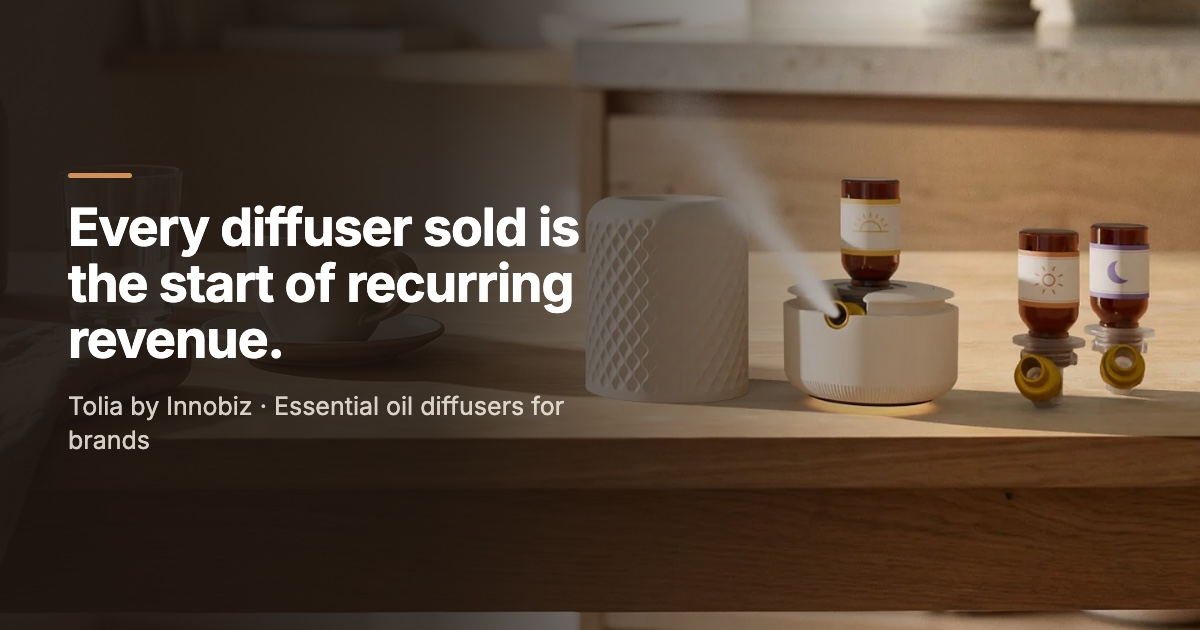
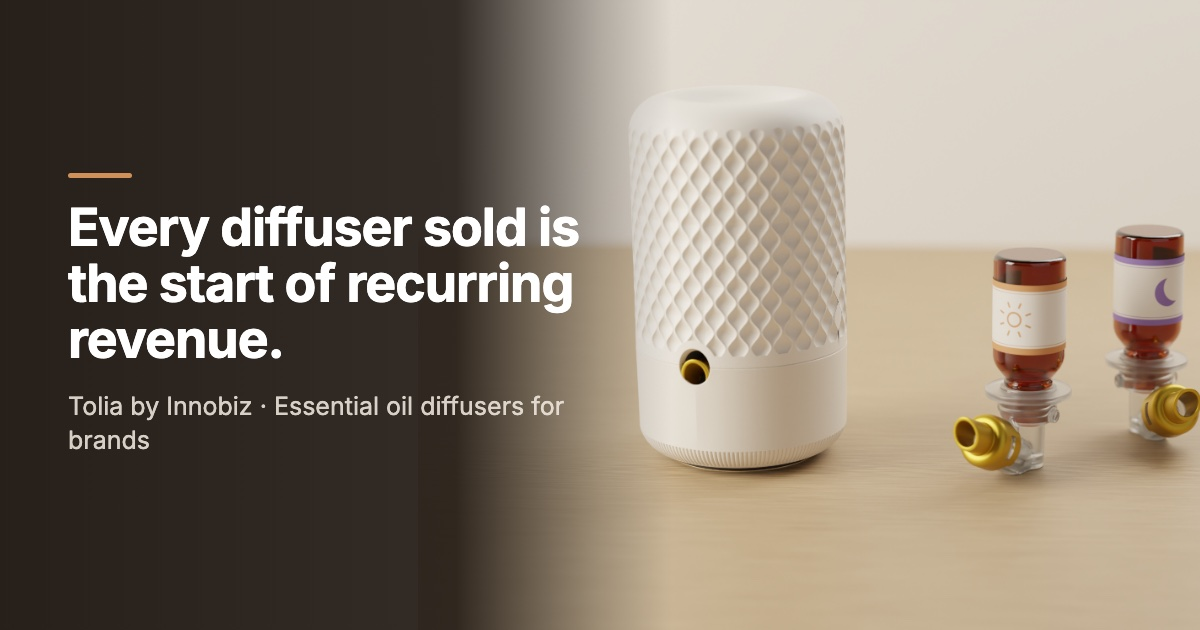
Images refaites en 3D (fichiers STP, Blender) : plus de produit qui flotte ni d'image IA
Demande de Pierre du 20/10/2026 (« on dirait que le diffuseur flotte, cela fait
trop AI ») : haut de page, constat (le geste), personnalisation (cinq teintes) et
images de partage refaits avec outils/blender/hero.py (table en chêne, ombres de
contact, flacons posés par simulation, anneau lumineux éteint) ; durabilité :
retour du vrai rendu du Tolia démonté à la place de l'image IA d'un autre
diffuseur. Haut de page : le lecteur Vimeo n'est montré que s'il s'est annoncé
(« ready ») et une erreur du lecteur laisse l'image fixe (« Player error » vu sur
le site en ligne).

diff --git a/src/components/sections/HeroSection.tsx b/src/components/sections/HeroSection.tsx
@@ -19,7 +19,7 @@ const FILM_SECONDS = 41;
 // le film qu'à partir de sa 6e seconde ; avant, l'image du produit reste affichée (retour des 5 marques testeuses, 17/10/2026).
 const SKIP_INTRO_S = 6;
 // Le lecteur envoie « playProgress » (avancement) et « finish » (fin) ; « timeupdate » et « ended » sont les noms de la nouvelle API.
-const VIMEO_EVENTS = ['play', 'playing', 'playProgress', 'timeupdate', 'finish', 'ended'];
+const VIMEO_EVENTS = ['play', 'playing', 'playProgress', 'timeupdate', 'finish', 'ended', 'error'];
 
 const HeroVideo: React.FC<{ onStatus?: (playing: boolean, ended: boolean) => void }> = ({ onStatus }) => {
   const iframeRef = useRef<HTMLIFrameElement>(null);
@@ -33,6 +33,9 @@ const HeroVideo: React.FC<{ onStatus?: (playing: boolean, ended: boolean) => voi
   const [gone, setGone] = useState(false);
   const [filmSec, setFilmSec] = useState(0);
   const [noEventsLate, setNoEventsLate] = useState(false);
+  // 20/10/2026 : le lecteur doit s'être annoncé (« ready ») pour être montré ; une erreur Vimeo (« Player error », vue sur
+  // le site en ligne le 16/09) laisse l'image fixe à l'écran au lieu du message d'erreur.
+  const [ready, setReady] = useState(false);
 
   useEffect(() => {
     // Mount right after the first paint: the hero text is already on screen,
@@ -84,7 +87,8 @@ const HeroVideo: React.FC<{ onStatus?: (playing: boolean, ended: boolean) => voi
       try {
         const data = typeof event.data === 'string' ? JSON.parse(event.data) : event.data;
         const name = data?.event || data?.method;
-        if (name === 'ready') subscribe();
+        if (name === 'ready') { setReady(true); subscribe(); }
+        if (name === 'error') setEnded(true);
         if (name === 'play' || name === 'playing') setPlaying(true);
         if (name === 'timeupdate' || name === 'playProgress') {
           setPlaying(true);
@@ -132,7 +136,7 @@ const HeroVideo: React.FC<{ onStatus?: (playing: boolean, ended: boolean) => voi
   }, [ended]);
 
   const pastIntro = filmSec >= SKIP_INTRO_S || (noEventsLate && filmSec === 0);
-  const visible = (playing || showAnyway) && pastIntro && !ended;
+  const visible = (playing || (showAnyway && ready)) && pastIntro && !ended;
   useEffect(() => { onStatus?.(visible, ended); }, [visible, ended, onStatus]);
 
   return (
@@ -224,9 +228,9 @@ const HeroSection: React.FC = () => {
   const showPoster = (waited && !film.playing) || film.ended; // « playing » = film réellement visible (après son introduction)
   const posterAlt = t3(
     language,
-    'Diffuseur Tolia fermé sur une table de salon : la brume d’huile essentielle sort de la buse, deux flacons attendent à côté avec leur module',
-    'Closed Tolia diffuser on a living-room table: essential oil mist leaves the nozzle, two bottles wait beside it with their modules',
-    'Difusor Tolia cerrado sobre una mesa de salón: la bruma de aceite esencial sale de la boquilla y dos frascos esperan al lado con su módulo'
+    'Diffuseur Tolia fermé, posé sur une table en chêne, et deux flacons à côté avec leur module de diffusion vissé',
+    'Closed Tolia diffuser on an oak table, with two bottles beside it, their diffusion module screwed on',
+    'Difusor Tolia cerrado sobre una mesa de roble, con dos frascos al lado y su módulo de difusión enroscado'
   );
 
   const title = t3(
@@ -281,14 +285,14 @@ const HeroSection: React.FC = () => {
         className={`hero-poster-m pointer-events-none absolute left-5 right-5 top-[76px] z-[5] m-0 overflow-hidden rounded-2xl shadow-xl ring-1 ring-white/15 transition-opacity duration-700 ${showPoster ? 'opacity-100' : 'opacity-0'}`}
         style={{ aspectRatio: '16 / 10' }}
       >
-        <img src={waited ? `${POSTER}hero_ferme.webp` : undefined} loading="lazy" alt={showPoster ? posterAlt : ''} className="h-full w-full object-cover" style={{ objectPosition: '50% 50%' }} decoding="async" />
+        <img src={waited ? `${POSTER}hero_ferme_3d.webp` : undefined} loading="lazy" alt={showPoster ? posterAlt : ''} className="h-full w-full object-cover" style={{ objectPosition: '50% 50%' }} decoding="async" />
       </figure>
       <figure
         aria-hidden={!showPoster}
         className={`hero-poster-d pointer-events-none absolute right-[5vw] top-1/2 z-[5] m-0 -translate-y-[42%] overflow-hidden rounded-2xl shadow-2xl ring-1 ring-white/15 transition-opacity duration-700 ${showPoster ? 'opacity-100' : 'opacity-0'}`}
         style={{ width: 'min(33vw, 540px)', aspectRatio: '16 / 10' }}
       >
-        <img src={waited ? `${POSTER}hero_ferme.webp` : undefined} loading="lazy" alt={showPoster ? posterAlt : ''} className="h-full w-full object-cover" style={{ objectPosition: '50% 50%' }} decoding="async" />
+        <img src={waited ? `${POSTER}hero_ferme_3d.webp` : undefined} loading="lazy" alt={showPoster ? posterAlt : ''} className="h-full w-full object-cover" style={{ objectPosition: '50% 50%' }} decoding="async" />
       </figure>
 
       <div className="hero-content relative z-10 h-full flex flex-col justify-end pb-14 md:pb-32 px-6 md:px-12 lg:px-20">

diff --git a/src/components/sections/DurabilitySection.tsx b/src/components/sections/DurabilitySection.tsx
@@ -9,7 +9,9 @@ import LegacyAnchors from '@/components/LegacyAnchors';
 
 // Image de l'ancien site (vue éclatée), reprise à la demande de Pierre le 17/10/2026 : il la préfère au rendu 3D fait avec Blender.
 // Elle sera remplacée par sa photo réelle du diffuseur démonté (photo n° 9 du guide PHOTOS-A-PRENDRE.md).
-const IMG = `${import.meta.env.BASE_URL}journee/img/durabilite_vue_eclatee.webp`;
+const IMG = `${import.meta.env.BASE_URL}journee/img/durabilite_demontage_3d.webp`;
+// 20/10/2026 : vrai rendu 3D du Tolia démonté (fichiers STP, Blender) à la place de l'image IA de l'ancien site, qui montrait
+// un autre diffuseur (bleu tressé, carte électronique et batterie génériques).
 
 /**
  * Durabilité et réparabilité : un argument fort pour les grandes marques d'aromathérapie (engagements RSE).
@@ -101,24 +103,24 @@ const DurabilitySection: React.FC = () => {
           >
             <img
               src={IMG}
-              width={1361}
-              height={784}
+              width={1600}
+              height={921}
               loading="lazy"
               decoding="async"
               className="w-full h-auto"
               alt={t3(
                 language,
-                'Vue éclatée d’un diffuseur modulaire : coque, module de diffusion, électronique et batterie séparés',
-                'Exploded view of a modular diffuser: shell, diffusion module, electronics and battery shown separately',
-                'Vista despiezada de un difusor modular: carcasa, módulo de difusión, electrónica y batería por separado'
+                'Le Tolia démonté, posé sur une table : cloche, base, pièces intérieures, module de diffusion, flacon et petites pièces',
+                'Tolia taken apart on a table: cover, base, internal parts, diffusion module, bottle and small parts',
+                'Tolia desmontado sobre una mesa: campana, base, piezas internas, módulo de difusión, frasco y piezas pequeñas'
               )}
             />
             <figcaption className="px-4 py-2.5 text-xs text-muted-foreground">
               {t3(
                 language,
-                'Illustration de principe : chaque pièce se démonte et se remplace.',
-                'Conceptual illustration: every part comes apart and can be replaced.',
-                'Ilustración orientativa: cada pieza se desmonta y se sustituye.'
+                'Rendu issu des fichiers 3D du Tolia : chaque pièce se démonte et se remplace.',
+                'Rendered from Tolia’s 3D files: every part comes apart and can be replaced.',
+                'Imagen generada a partir de los archivos 3D de Tolia: cada pieza se desmonta y se sustituye.'
               )}
             </figcaption>
           </motion.figure>

diff --git a/src/components/sections/HomeProblemSection.tsx b/src/components/sections/HomeProblemSection.tsx
@@ -8,7 +8,7 @@ import LegacyAnchors from '@/components/LegacyAnchors';
 import CarouselDots from '@/components/CarouselDots';
 
 // Le geste en une image (scène du matin recadrée) : le flacon clipsé dans la base, les autres flacons avec leur module.
-const GESTE = `${import.meta.env.BASE_URL}journee/img/constat_geste.webp`;
+const GESTE = `${import.meta.env.BASE_URL}journee/img/constat_geste_3d.webp`;
 
 /**
  * Le constat (refonte du 17/10/2026, demande de Pierre) : on montre que l'on connaît les usages.
@@ -154,9 +154,9 @@ const HomeProblemSection: React.FC = () => {
             style={{ aspectRatio: '3 / 2' }}
             alt={t3(
               l,
-              'Le flacon clipsé tête en bas dans la base de Tolia, la brume qui sort, et deux flacons qui attendent avec leur module de diffusion vissé',
-              'The bottle clipped upside down into Tolia’s base, mist coming out, and two bottles waiting with their diffusion module screwed on',
-              'El frasco encajado boca abajo en la base de Tolia, la bruma saliendo y dos frascos esperando con su módulo de difusión enroscado'
+              'Le flacon clipsé tête en bas dans la base de Tolia, et deux flacons qui attendent avec leur module de diffusion vissé',
+              'The bottle clipped upside down into Tolia’s base, and two bottles waiting with their diffusion module screwed on',
+              'El frasco encajado boca abajo en la base de Tolia y dos frascos esperando con su módulo de difusión enroscado'
             )}
           />
           <div className="min-w-0">

diff --git a/src/components/sections/CustomizationSection.tsx b/src/components/sections/CustomizationSection.tsx
@@ -8,7 +8,7 @@ import { trackCTAClick } from '@/lib/tracking';
 import LegacyAnchors from '@/components/LegacyAnchors';
 
 // Image de l'ancien site (section « Faites de Tolia le diffuseur de votre marque ») : planche de teintes, motifs et croquis.
-const IMG = `${import.meta.env.BASE_URL}journee/img/personnalisation_moodboard.webp`;
+const IMG = `${import.meta.env.BASE_URL}journee/img/personnalisation_teintes_3d.webp`;
 
 type Tri = { fr: string; en: string; es: string };
 interface Pillar {
@@ -189,7 +189,7 @@ const CustomizationSection: React.FC = () => {
               loading="lazy"
               decoding="async"
               className="w-full h-auto"
-              alt={t3(l, 'Le diffuseur Tolia personnalisable : teintes, motifs et croquis', 'The customisable Tolia diffuser: shades, patterns and sketches', 'El difusor Tolia personalizable: tonos, motivos y bocetos')}
+              alt={t3(l, 'Cinq diffuseurs Tolia de teintes différentes : la même forme, à la couleur de chaque marque', 'Five Tolia diffusers in different shades: the same shape, in each brand’s colour', 'Cinco difusores Tolia de tonos distintos: la misma forma, con el color de cada marca')}
             />
             <div className="absolute bottom-0 left-0 right-0 bg-gradient-to-t from-black/80 via-black/40 to-transparent px-4 py-3">
               <div className="flex items-end gap-2.5">
